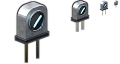
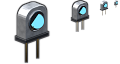
DA-ICONES : micro-passage des 4 (laser, oscillateur gardes ; Ecaille remise a c4f4220e)
Module laser : faisceau en trait rouge plein, fin et sature (intensite 1, sans gaine). Oscillateur : argent brosse clair, disque
de quartz cyan face camera cerne d'une tranche sombre, 2 fils de contact.
Ecaille, kit et technologie heavy : la nouvelle version (ecailles jusqu'au bas des flancs) restait une boite orange rayee, pas
meilleure que c4f4220e : PNG ET code de sig_ecaille remis a c4f4220e (regle du lead : jamais de regression).
Rendus rejetes ranges dans fo-logs/2026-11-04_DA-ICONES/rendus/rejetes ; tant que ces 2 rendus ne sont pas refaits avec le code
restaure, icones.py s'arrete sur « rendus manquants » au lieu de remettre la regression.
Planche : fo-logs/2026-11-04_DA-ICONES/controle-3.png. robotique_icones_test 258 OK, harness code 0, --manifeste 0 ecart.

diff --git a/tools/render/pieces/robotique/rq_kits.py b/tools/render/pieces/robotique/rq_kits.py
@@ -61,33 +61,27 @@ def _plaque(p, n, t, dims, m, inclinaison=14.0):
     return o
 
 
-def sig_ecaille(L=5.2, R=1.35):
-    """Long corps cuirassé à FLANCS DROITS (section en superellipse), dos d'âne : bandes d'écailles d'ACIER dominantes, cuivre en
-    rappel, joints orange entre les bandes, CRÊTE d'écailles pointues sur l'échine, bloc de nez à l'avant (+x) (contre-relecture :
-    un pain cuivré à bandes, une grenade)."""
-    a, c, n, m = L / 2, R * 1.05, 4.0, 5.0
-    B(L * 0.9, 2 * R * 0.94, c * 1.85, 0, 0, -c * 0.92, lum("joint_orange", force=0.9), bev=0.45)
-
-    def ext(x):
-        return max(0.08, (1 - abs(x / a) ** m)) ** (1 / m)
-    nb, nk = 8, 8
-    mats = ("ecaille", "ecaille", "cuivre", "ecaille")
+def sig_ecaille(L=5.0, R=1.35):
+    """LONG corps cuirassé (environ 2 fois plus long que large, critique : un dôme faisait une tortue), dos en dos d'âne : bandes
+    d'écailles d'acier et de cuivre, joints orange incandescents ENTRE les bandes, bloc de nez à l'avant (+x), crête à pointes."""
+    a, c = L / 2, R * 1.05
+    corps = SPH(1.0, 0, 0, 0, lum("joint_orange", force=0.9), seg=48, rings=24)
+    corps.scale = (a * 0.97, R * 0.97, c * 0.97)
+    nb, nk = 7, 7
     for i in range(nb):
         x = -a + (i + 0.5) * (2 * a / nb)
-        f = ext(x)
+        f = math.sqrt(max(0.05, 1 - (x / a) ** 2))
+        m = ("ecaille", "cuivre", "ecaille_rouille")[i % 3]
         for k in range(nk):
-            phi = math.radians(8 + k * (164 / (nk - 1)))
-            cs, sn = math.cos(phi), math.sin(phi)
-            y = R * f * math.copysign(abs(cs) ** (2 / n), cs)
-            z = c * f * abs(sn) ** (2 / n)
-            nv = Vector((0.0, math.copysign(abs(y / R) ** (n - 1), y) / R, abs(z / c) ** (n - 1) / c)).normalized()
-            tv = Vector((0.0, -nv.z, nv.y))
-            _plaque(Vector((x, y, z)), nv, tv, (0.62 * f + 0.12, (2 * a / nb) * 0.9, 0.15), mats[i % 4], inclinaison=12)
-        o = lathe([(0.3, 0.0), (0.0, 0.75)], x, 0, c * f + 0.05, "ecaille", verts=4, lisse=False, phase=0.785)
-        o.rotation_euler = (0, math.radians(-22), 0)
-    B(0.95, 1.9, 1.6, a - 0.15, 0, -0.75, "fonte", bev=0.16)
+            phi = math.radians(12 + k * 26)
+            p = Vector((x, R * f * math.cos(phi), c * f * math.sin(phi)))
+            nv = Vector((x / a ** 2, p.y / R ** 2, p.z / c ** 2))
+            tv = Vector((0.0, -math.sin(phi), math.cos(phi)))
+            _plaque(p, nv, tv, (max(0.3, R * f * 0.47), (2 * a / nb) * 0.9, 0.14), m, inclinaison=12)
+        lathe([(0.2, 0.0), (0.0, 0.5)], x, 0, c * f + 0.08, "fonte", verts=4, lisse=False)
+    B(0.9, 1.7, 1.5, a - 0.25, 0, -0.55, "fonte", bev=0.16)
     for s in (-1, 1):
-        B(0.06, 0.34, 0.14, a + 0.34, s * 0.45, 0.2, lum("joint_orange", force=1.4), bev=0)
+        B(0.06, 0.34, 0.14, a + 0.21, s * 0.42, 0.25, lum("joint_orange", force=1.4), bev=0)
 
 
 def sig_bobineur():

diff --git a/tools/render/pieces/robotique/rq_pieces.py b/tools/render/pieces/robotique/rq_pieces.py
@@ -245,18 +245,15 @@ def tete_laser(faisceau=1.6, rayon0=0.38, nez=1.15, lueur=False):
         o.rotation_euler = (0, math.radians(90), 0)
     elif faisceau > 0:
         coeur = lum("faisceau", mode="z", z0=faisceau, z1=0.0)
-        o = lathe([(rayon0, 0.0), (rayon0 * 0.6, faisceau * 0.7), (0.02, faisceau)], xl + 0.05, 0, 0, coeur, verts=16)
+        o = lathe([(rayon0, 0.0), (rayon0 * 0.8, faisceau * 0.75), (rayon0 * 0.3, faisceau)], xl + 0.05, 0, 0, coeur, verts=16)
         o.rotation_euler = (0, math.radians(90), 0)
-        gaine = P.mat_voile("gaine_laser", (1.0, 0.06, 0.03), 0.55, 5.0)
-        g = lathe([(rayon0 * 2.6, 0.0), (rayon0 * 1.6, faisceau * 0.7), (0.05, faisceau)], xl + 0.05, 0, 0, gaine, verts=24)
-        g.rotation_euler = (0, math.radians(90), 0)
-        g.visible_shadow = False
+        o.visible_shadow = False
     B(2.6, 1.2, 0.3, -0.6, 0, -1.25, "alu_sombre", bev=0.05)
 
 
 def ic_laser_module():
     """Tête de PROFIL sur la diagonale (critique : vue dans l'axe, elle se confondait avec le capteur optique)."""
-    pivoter(capte(tete_laser, 2.8, 0.17, 0.7, True), rot=(0, 14, -62))
+    pivoter(capte(tete_laser, 3.2, 0.1, 0.7, True), rot=(0, 14, -62))
 
 
 # ------------------------------------------------------------------------------------------------------------------
@@ -308,8 +305,10 @@ def oscillateur():
     zf, yf = 1.55, -ep / 2
     TOR(0.98, 0.08, 0, yf - 0.03, zf, "chrome", rot=(90, 0, 0), minor=10)
     CYX(0.94, 0.04, 0, yf - 0.01, zf, "fond_noir", axe="y", verts=48, bev=0)
-    d = CYX(0.68, 0.14, 0, yf - 0.2, zf, lum("quartz", force=1.2), axe="y", verts=48, bev=0.02)
-    d.rotation_euler = (math.radians(90 + 28), 0, math.radians(30))
+    d = CYX(0.7, 0.12, 0, yf - 0.12, zf, lum("quartz2"), axe="y", verts=48, bev=0.02)
+    d.rotation_euler = (math.radians(68), 0, math.radians(-20))
+    t = TOR(0.7, 0.05, 0, yf - 0.12, zf, "noir_mat", minor=8)
+    t.rotation_euler = (math.radians(68), 0, math.radians(-20))
     for sx in (-1, 1):
         tube([(sx * 0.5, yf - 0.18, zf - 0.35), (sx * 0.58, yf - 0.1, zf - 0.7), (sx * 0.62, yf - 0.03, zf - 0.88)], 0.035, "or", res=6)
 

diff --git a/tools/render/pieces/robotique/rq_couleurs.py b/tools/render/pieces/robotique/rq_couleurs.py
@@ -58,7 +58,8 @@ LUM.update({
     "cyan_levite": (lin("#C8FAFF"), lin("#10A8D8"), 1.2),
     "rose_tore": (lin("#FFB0F0"), lin("#E020B0"), 1.2),
     "rouge_laser": (lin("#FFB090"), lin("#E01808"), 1.3),
-    "faisceau": (lin("#FF5038"), lin("#B00404"), 2.2),
+    "faisceau": (lin("#FF2A18"), lin("#A00404"), 1.0),
+    "quartz2": (lin("#7FE8FF"), lin("#1878B0"), 0.95),
     "lilas_yag": (lin("#F4C0FF"), lin("#5A1488"), 1.05),
     "quartz": (lin("#D8FAFF"), lin("#38A8D8"), 0.9),
     "vitrail": (lin("#E08A20"), lin("#5A1E02"), 0.6),
